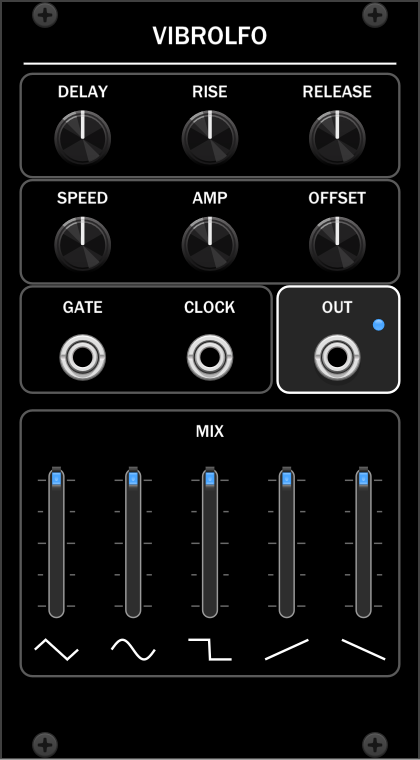
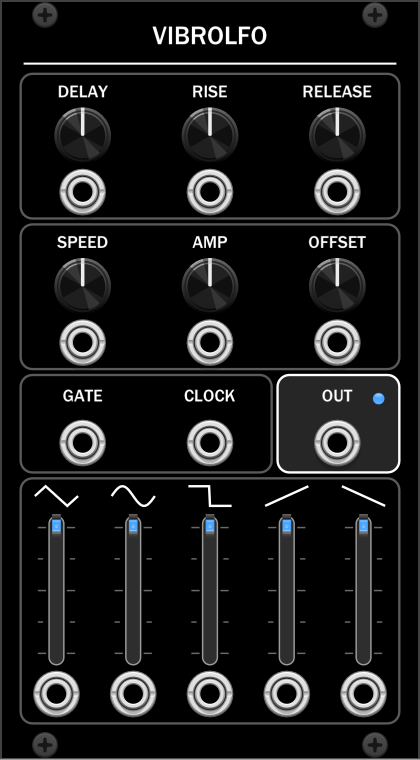
VibroLFO: CV input under every knob and fader
Each CV adds to its control and is clamped to the control's range:
+10 V sweeps the delay/rise/release times, AMP and the mix faders;
SPEED is 1 V/oct (one ratio step per volt when clocked) and OFFSET is
volt for volt. The wave drawings move above the faders to make room,
and the README and screenshot are updated.

diff --git a/src/VibroLFO.cpp b/src/VibroLFO.cpp
@@ -53,6 +53,14 @@ struct VibroLFO : Module {
 	enum InputId {
 		GATE_INPUT,
 		CLOCK_INPUT,
+		// One CV input per knob and fader, in the same order as the params.
+		DELAY_CV_INPUT,
+		RISE_CV_INPUT,
+		RELEASE_CV_INPUT,
+		SPEED_CV_INPUT,
+		AMPLITUDE_CV_INPUT,
+		OFFSET_CV_INPUT,
+		ENUMS(MIX_CV_INPUT, NUM_WAVES),
 		INPUTS_LEN
 	};
 	enum OutputId {
@@ -92,7 +100,7 @@ struct VibroLFO : Module {
 		}
 		std::string getDisplayValueString() override {
 			if (clocked())
-				return RATIO_LABELS[static_cast<VibroLFO*>(module)->ratioIndex()];
+				return RATIO_LABELS[static_cast<VibroLFO*>(module)->ratioIndex(0.f)];
 			return ParamQuantity::getDisplayValueString();
 		}
 		std::string getUnit() override {
@@ -125,6 +133,15 @@ struct VibroLFO : Module {
 
 		configInput(GATE_INPUT, "Gate (LFO runs while high)");
 		configInput(CLOCK_INPUT, "Clock (sync; SPEED then picks the ratio)");
+		// Each CV adds to its control. 10 V sweeps the whole range (SPEED: 1 V/oct, OFFSET: 1 V/V).
+		configInput(DELAY_CV_INPUT, "Delay CV (+10 V = +5 s)");
+		configInput(RISE_CV_INPUT, "Rise CV (+10 V = +5 s)");
+		configInput(RELEASE_CV_INPUT, "Release CV (+10 V = +5 s)");
+		configInput(SPEED_CV_INPUT, "Speed CV (1 V/oct; clocked, 1 V = one ratio step)");
+		configInput(AMPLITUDE_CV_INPUT, "Amplitude CV (+10 V = full knob turn)");
+		configInput(OFFSET_CV_INPUT, "Offset CV (added to the knob)");
+		for (int i = 0; i < NUM_WAVES; i++)
+			configInput(MIX_CV_INPUT + i, std::string(WAVE_NAMES[i]) + " CV (+10 V = full fader)");
 		configOutput(LFO_OUTPUT, "LFO");
 		for (int i = 0; i < NUM_WAVES; i++)
 			configLight(MIX_LIGHT + i, std::string(WAVE_NAMES[i]) + " level");
@@ -140,10 +157,16 @@ struct VibroLFO : Module {
 		clockPeriod = 0.5f;
 	}
 
-	int ratioIndex() {
+	/** The clock ratio picked by the SPEED knob, moved `speedCv` steps (1 V per step: each step doubles). */
+	int ratioIndex(float speedCv) {
 		ParamQuantity* pq = getParamQuantity(SPEED_PARAM);
 		float t = (params[SPEED_PARAM].getValue() - pq->getMinValue()) / (pq->getMaxValue() - pq->getMinValue());
-		return clamp((int) std::round(t * (NUM_RATIOS - 1)), 0, NUM_RATIOS - 1);
+		return clamp((int) std::round(t * (NUM_RATIOS - 1) + speedCv), 0, NUM_RATIOS - 1);
+	}
+
+	/** A control's knob or fader value plus its CV input times `voltsToValue`, clamped to [lo, hi]. */
+	float withCv(int param, int input, float voltsToValue, float lo, float hi) {
+		return clamp(params[param].getValue() + inputs[input].getVoltage() * voltsToValue, lo, hi);
 	}
 
 	void process(const ProcessArgs& args) override {
@@ -151,9 +174,10 @@ struct VibroLFO : Module {
 
 		// LFO rate: free-running from SPEED, or a ratio of the measured clock tempo.
 		bool clocked = inputs[CLOCK_INPUT].isConnected();
+		float speedCv = inputs[SPEED_CV_INPUT].getVoltage();
 		float freq;
 		if (clocked) {
-			float ratio = RATIOS[ratioIndex()];
+			float ratio = RATIOS[ratioIndex(speedCv)];
 			int division = ratio < 1.f ? (int) std::round(1.f / ratio) : 1;
 			timeSinceClock += dt;
 			if (clockTrigger.process(inputs[CLOCK_INPUT].getVoltage(), 0.1f, 1.f)) {
@@ -173,8 +197,14 @@ struct VibroLFO : Module {
 		else {
 			clockSeen = false;
 			clockCount = 0;
-			freq = std::pow(2.f, params[SPEED_PARAM].getValue());
+			// The knob is log2(Hz), so adding the CV gives 1 V/oct.
+			freq = std::pow(2.f, clamp(params[SPEED_PARAM].getValue() + speedCv, std::log2(MIN_HZ), std::log2(MAX_HZ)));
 		}
+
+		const float timePerVolt = MAX_TIME / 10.f;
+		float delay = withCv(DELAY_PARAM, DELAY_CV_INPUT, timePerVolt, 0.f, MAX_TIME);
+		float rise = withCv(RISE_PARAM, RISE_CV_INPUT, timePerVolt, 0.f, MAX_TIME);
+		float release = withCv(RELEASE_PARAM, RELEASE_CV_INPUT, timePerVolt, 0.f, MAX_TIME);
 
 		// Gate stages.
 		bool wasHigh = gateTrigger.isHigh();
@@ -192,7 +222,7 @@ struct VibroLFO : Module {
 
 		if (stage == DELAY) {
 			delayElapsed += dt;
-			if (delayElapsed >= params[DELAY_PARAM].getValue()) {
+			if (delayElapsed >= delay) {
 				stage = RUN;
 				// Free-running, each gate starts a fresh cycle. Clocked, the phase stays on the beat.
 				if (!clocked)
@@ -200,11 +230,9 @@ struct VibroLFO : Module {
 			}
 		}
 		if (stage == RUN) {
-			float rise = params[RISE_PARAM].getValue();
 			envelope = (rise > 0.f) ? std::min(envelope + dt / rise, 1.f) : 1.f;
 		}
 		else if (stage == RELEASE) {
-			float release = params[RELEASE_PARAM].getValue();
 			envelope = (release > 0.f) ? envelope - dt / release : 0.f;
 			if (envelope <= 0.f) {
 				envelope = 0.f;
@@ -223,7 +251,7 @@ struct VibroLFO : Module {
 		float mix = 0.f;
 		float total = 0.f;
 		for (int i = 0; i < NUM_WAVES; i++) {
-			float level = params[MIX_PARAM + i].getValue();
+			float level = withCv(MIX_PARAM + i, MIX_CV_INPUT + i, 0.1f, 0.f, 1.f);
 			total += level;
 			mix += level * waveValue(i, phase);
 			lights[MIX_LIGHT + i].setBrightness(level);
@@ -232,10 +260,11 @@ struct VibroLFO : Module {
 			mix /= total;
 
 		// Squared taper, matching AmplitudeQuantity's display.
-		float amp = params[AMPLITUDE_PARAM].getValue();
+		float amp = withCv(AMPLITUDE_PARAM, AMPLITUDE_CV_INPUT, 0.1f, 0.f, 1.f);
 		float amplitude = MAX_AMPLITUDE * amp * amp;
 		float lfo = amplitude * envelope * mix;
-		outputs[LFO_OUTPUT].setVoltage(params[OFFSET_PARAM].getValue() + lfo);
+		float offset = withCv(OFFSET_PARAM, OFFSET_CV_INPUT, 1.f, -10.f, 10.f);
+		outputs[LFO_OUTPUT].setVoltage(offset + lfo);
 		lights[OUT_LIGHT].setBrightness(envelope * (mix + 1.f) / 2.f);
 	}
 };
@@ -280,6 +309,10 @@ struct VibroLFOWidget : ModuleWidget {
 		addChild(new PanelLabel(Vec(xMm, yMm), text, size));
 	}
 
+	void cvJack(Vec posMm, Module* module, int input) {
+		addInput(createInputCentered<PJ301MPort>(mm2px(posMm), module, input));
+	}
+
 	VibroLFOWidget(VibroLFO* module) {
 		setModule(module);
 		setPanel(createPanel(asset::plugin(pluginInstance, "res/VibroLFO.svg")));
@@ -287,40 +320,51 @@ struct VibroLFOWidget : ModuleWidget {
 
 		label(35.56f, 6.f, "VIBROLFO", TITLE_SIZE);
 
-		// Three columns of controls.
+		// Three columns of controls. Each knob and fader has its CV jack right under it.
 		const float colX[3] = {14.f, 35.56f, 57.12f};
+		const float cvBelowKnob = 9.5f;
 
 		// Envelope: delay, rise, release.
-		label(colX[0], 15.5f, "DELAY");
-		label(colX[1], 15.5f, "RISE");
-		label(colX[2], 15.5f, "RELEASE");
-		addParam(createParamCentered<MediumKnob>(mm2px(Vec(colX[0], 23.5f)), module, VibroLFO::DELAY_PARAM));
-		addParam(createParamCentered<MediumKnob>(mm2px(Vec(colX[1], 23.5f)), module, VibroLFO::RISE_PARAM));
-		addParam(createParamCentered<MediumKnob>(mm2px(Vec(colX[2], 23.5f)), module, VibroLFO::RELEASE_PARAM));
+		const float envY = 23.f;
+		label(colX[0], envY - 7.5f, "DELAY");
+		label(colX[1], envY - 7.5f, "RISE");
+		label(colX[2], envY - 7.5f, "RELEASE");
+		addParam(createParamCentered<MediumKnob>(mm2px(Vec(colX[0], envY)), module, VibroLFO::DELAY_PARAM));
+		addParam(createParamCentered<MediumKnob>(mm2px(Vec(colX[1], envY)), module, VibroLFO::RISE_PARAM));
+		addParam(createParamCentered<MediumKnob>(mm2px(Vec(colX[2], envY)), module, VibroLFO::RELEASE_PARAM));
+		cvJack(Vec(colX[0], envY + cvBelowKnob), module, VibroLFO::DELAY_CV_INPUT);
+		cvJack(Vec(colX[1], envY + cvBelowKnob), module, VibroLFO::RISE_CV_INPUT);
+		cvJack(Vec(colX[2], envY + cvBelowKnob), module, VibroLFO::RELEASE_CV_INPUT);
 
 		// LFO: speed, amplitude, offset.
-		label(colX[0], 33.5f, "SPEED");
-		label(colX[1], 33.5f, "AMP");
-		label(colX[2], 33.5f, "OFFSET");
-		addParam(createParamCentered<MediumKnob>(mm2px(Vec(colX[0], 41.5f)), module, VibroLFO::SPEED_PARAM));
-		addParam(createParamCentered<MediumKnob>(mm2px(Vec(colX[1], 41.5f)), module, VibroLFO::AMPLITUDE_PARAM));
-		addParam(createParamCentered<MediumKnob>(mm2px(Vec(colX[2], 41.5f)), module, VibroLFO::OFFSET_PARAM));
+		const float lfoY = 48.5f;
+		label(colX[0], lfoY - 7.5f, "SPEED");
+		label(colX[1], lfoY - 7.5f, "AMP");
+		label(colX[2], lfoY - 7.5f, "OFFSET");
+		addParam(createParamCentered<MediumKnob>(mm2px(Vec(colX[0], lfoY)), module, VibroLFO::SPEED_PARAM));
+		addParam(createParamCentered<MediumKnob>(mm2px(Vec(colX[1], lfoY)), module, VibroLFO::AMPLITUDE_PARAM));
+		addParam(createParamCentered<MediumKnob>(mm2px(Vec(colX[2], lfoY)), module, VibroLFO::OFFSET_PARAM));
+		cvJack(Vec(colX[0], lfoY + cvBelowKnob), module, VibroLFO::SPEED_CV_INPUT);
+		cvJack(Vec(colX[1], lfoY + cvBelowKnob), module, VibroLFO::AMPLITUDE_CV_INPUT);
+		cvJack(Vec(colX[2], lfoY + cvBelowKnob), module, VibroLFO::OFFSET_CV_INPUT);
 
 		// Jacks: gate and clock in, LFO out.
-		label(colX[0], 52.f, "GATE");
-		label(colX[1], 52.f, "CLOCK");
-		label(colX[2], 52.f, "OUT");
-		addInput(createInputCentered<PJ301MPort>(mm2px(Vec(colX[0], 60.5f)), module, VibroLFO::GATE_INPUT));
-		addInput(createInputCentered<PJ301MPort>(mm2px(Vec(colX[1], 60.5f)), module, VibroLFO::CLOCK_INPUT));
-		addOutput(createOutputCentered<PJ301MPort>(mm2px(Vec(colX[2], 60.5f)), module, VibroLFO::LFO_OUTPUT));
-		addChild(createLightCentered<SmallLight<BrightBlueLight>>(mm2px(Vec(colX[2] + 7.f, 55.f)), module, VibroLFO::OUT_LIGHT));
+		const float ioY = 75.f;
+		label(colX[0], ioY - 8.f, "GATE");
+		label(colX[1], ioY - 8.f, "CLOCK");
+		label(colX[2], ioY - 8.f, "OUT");
+		addInput(createInputCentered<PJ301MPort>(mm2px(Vec(colX[0], ioY)), module, VibroLFO::GATE_INPUT));
+		addInput(createInputCentered<PJ301MPort>(mm2px(Vec(colX[1], ioY)), module, VibroLFO::CLOCK_INPUT));
+		addOutput(createOutputCentered<PJ301MPort>(mm2px(Vec(colX[2], ioY)), module, VibroLFO::LFO_OUTPUT));
+		addChild(createLightCentered<SmallLight<BrightBlueLight>>(mm2px(Vec(colX[2] + 7.f, ioY - 7.5f)), module, VibroLFO::OUT_LIGHT));
 
-		// Mix faders along the bottom, one per waveform, with a drawing of the wave under each.
-		label(35.56f, 73.f, "MIX");
+		// Mix faders along the bottom, one per waveform: a drawing of the wave above each fader,
+		// and its CV jack below.
 		for (int i = 0; i < NUM_WAVES; i++) {
 			float x = 9.56f + i * 13.f;
-			addParam(createLightParamCentered<BlueFader>(mm2px(Vec(x, 92.f)), module, VibroLFO::MIX_PARAM + i, VibroLFO::MIX_LIGHT + i));
-			addChild(new WaveIcon(Vec(x, 110.f), i));
+			addChild(new WaveIcon(Vec(x, 84.f), i));
+			addParam(createLightParamCentered<BlueFader>(mm2px(Vec(x, 100.f)), module, VibroLFO::MIX_PARAM + i, VibroLFO::MIX_LIGHT + i));
+			cvJack(Vec(x, 117.5f), module, VibroLFO::MIX_CV_INPUT + i);
 		}
 	}
 };

diff --git a/README.md b/README.md
@@ -66,7 +66,7 @@ waveforms, and it can sync to a clock.
 | **SPEED** | LFO rate, 0.05–20 Hz. When CLOCK is patched, it picks a clock ratio instead: 1/8x, 1/4x, 1/2x, 1x, 2x, 4x or 8x. That is how many LFO cycles happen per clock pulse. |
 | **AMP** | Peak level of the LFO, 0–5 V. The knob is tapered so small vibrato depths are easy to set. |
 | **OFFSET** | Voltage the LFO moves around, −5 to +5 V. This is also the output while the LFO isn't running. |
-| **Mix faders** | One each for triangle, sine, square, ramp up and ramp down, shown by the drawing under each fader. They set the blend proportions. The mix is scaled so its peak never exceeds AMP, however many faders are up. Starts as sine only. |
+| **Mix faders** | One each for triangle, sine, square, ramp up and ramp down, shown by the drawing above each fader. They set the blend proportions. The mix is scaled so its peak never exceeds AMP, however many faders are up. Starts as sine only. |
 
 ### Inputs and output
 
@@ -75,6 +75,19 @@ waveforms, and it can sync to a clock.
 | **GATE** | The LFO runs while this is high. Each new gate starts over: delay, then rise. |
 | **CLOCK** | Syncs the LFO. The tempo is measured from the gap between pulses, and the LFO cycle restarts on the beat. When clocked, the LFO stays locked to the beat between gates, instead of starting a fresh cycle on each one. |
 | **OUT** | OFFSET plus the LFO. The LED next to it follows the LFO. |
+
+### CV inputs
+
+Every knob and fader has a CV jack directly under it. The CV is added to the control's
+setting, and the result is limited to the control's range.
+
+| CV jack | Scaling |
+|---|---|
+| **DELAY**, **RISE**, **RELEASE** | +10 V adds the full 5 s. |
+| **SPEED** | 1 V/oct. When clocked, each volt moves one ratio step (each step doubles). |
+| **AMP** | +10 V adds a full turn of the knob. |
+| **OFFSET** | Added volt for volt. |
+| **Mix faders** | +10 V adds the full fader travel. The fader's light shows the resulting level. |
 
 ## Installing
 
